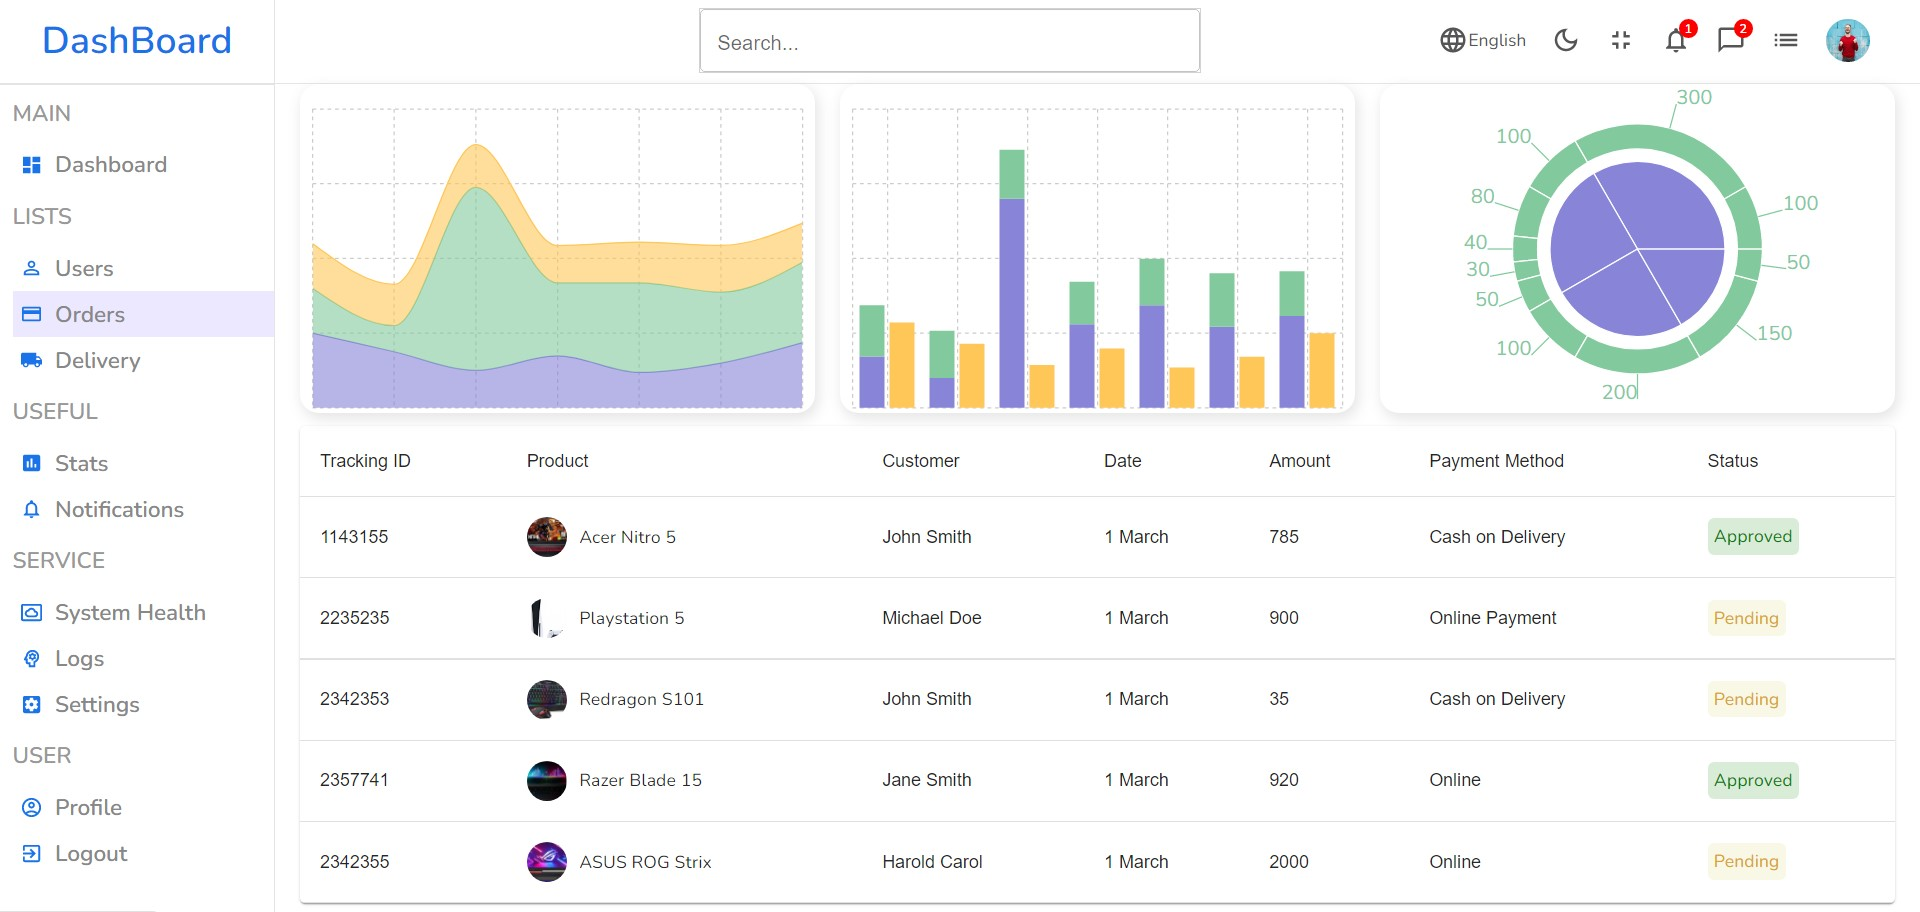
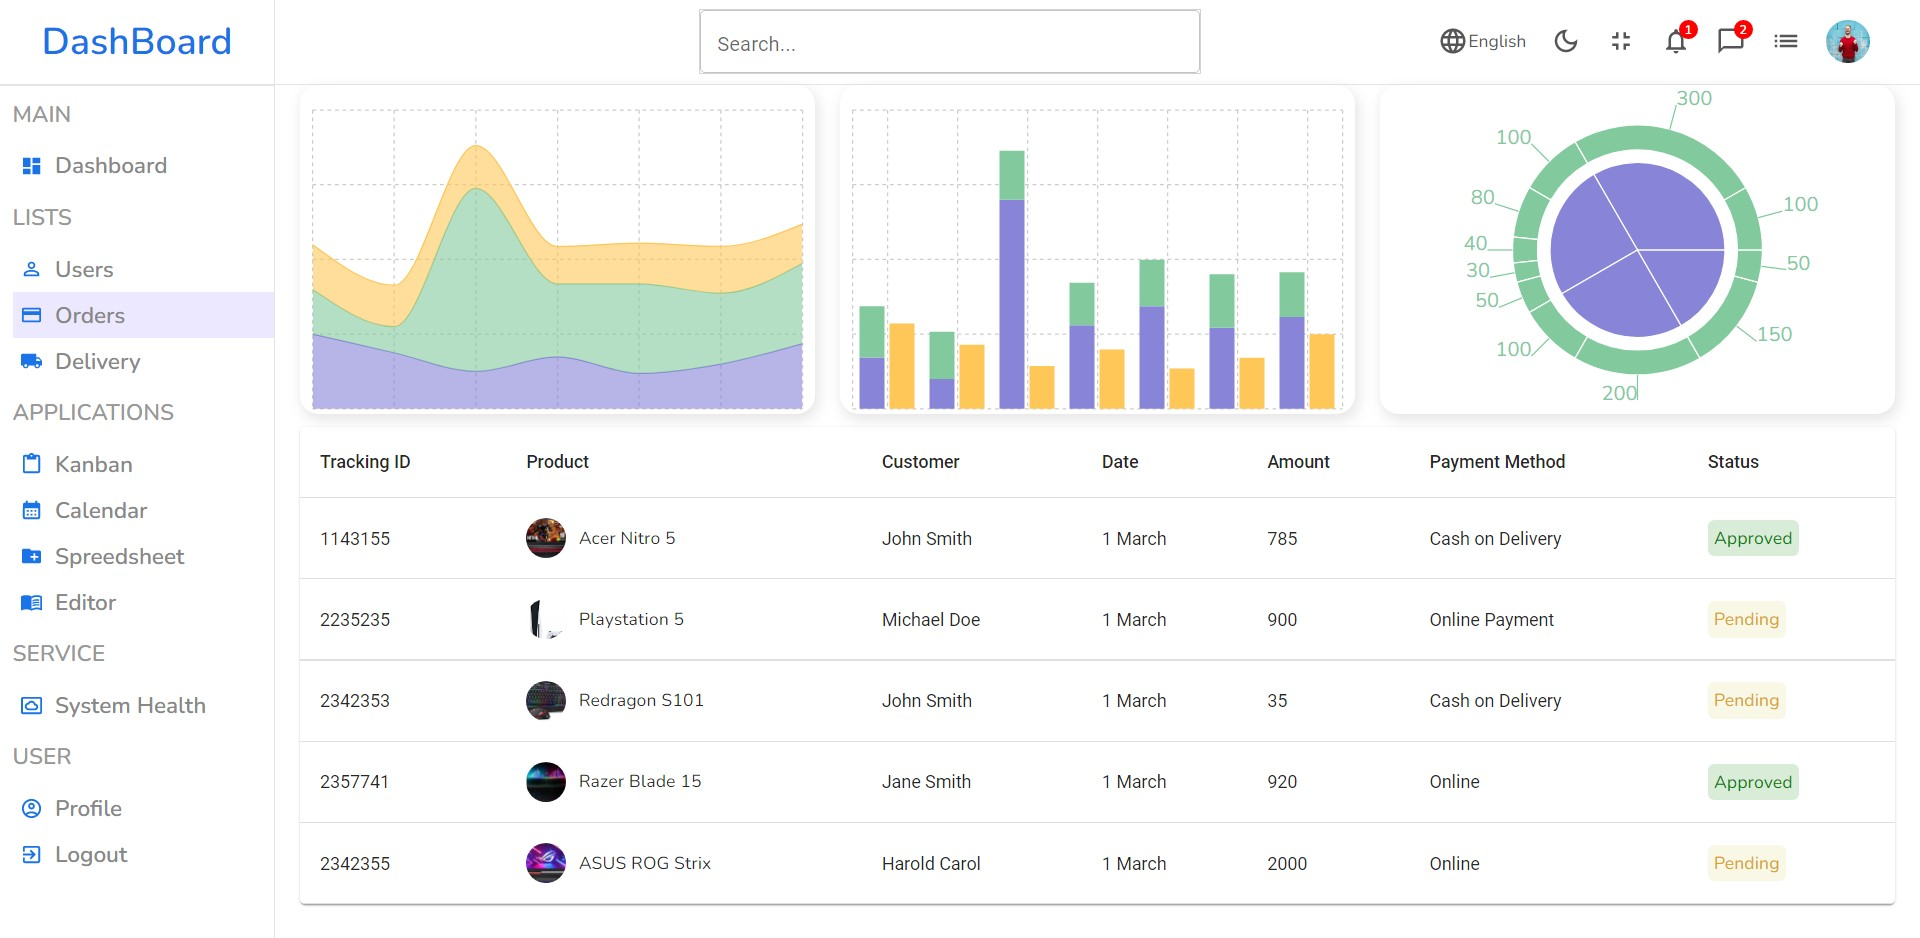
added Sheet and Editor

diff --git a/src/components/sidebar/Sidebar.jsx b/src/components/sidebar/Sidebar.jsx
@@ -14,6 +14,8 @@ import AccountCircleOutlinedIcon from "@mui/icons-material/AccountCircleOutlined
 
 import ContentPasteIcon from '@mui/icons-material/ContentPaste';
 import CalendarMonthIcon from '@mui/icons-material/CalendarMonth';
+import CreateNewFolderIcon from '@mui/icons-material/CreateNewFolder';
+import MenuBookIcon from '@mui/icons-material/MenuBook';
 
 import './sidebar.css'
 
@@ -73,19 +75,31 @@ function Sidebar() {
               <span>Calendar</span>
             </li>
           </Link>
+          <Link to="/sheet" style={{ textDecoration: "none" }}>
+            <li>
+              <CreateNewFolderIcon className="icon" />
+              <span>Spreedsheet</span>
+            </li>
+          </Link>
+          <Link to="/editor" style={{ textDecoration: "none" }}>
+            <li>
+              <MenuBookIcon className="icon" />
+              <span>Editor</span>
+            </li>
+          </Link>
           <p className="title">SERVICE</p>
           <li>
             <SettingsSystemDaydreamOutlinedIcon className="icon" />
             <span>System Health</span>
           </li>
-          <li>
+          {/* <li>
             <PsychologyOutlinedIcon className="icon" />
             <span>Logs</span>
           </li>
           <li>
             <SettingsApplicationsIcon className="icon" />
             <span>Settings</span>
-          </li>
+          </li> */}
           <p className="title">USER</p>
           <li>
             <AccountCircleOutlinedIcon className="icon" />

diff --git a/src/components/sheet/Spreedsheet.jsx b/src/components/sheet/Spreedsheet.jsx
@@ -1,0 +1,32 @@
+import { SpreadsheetComponent, SheetsDirective, SheetDirective, RangesDirective } from '@syncfusion/ej2-react-spreadsheet';
+import { RangeDirective, ColumnsDirective, ColumnDirective } from '@syncfusion/ej2-react-spreadsheet';
+import Header from '../header/Header'
+import { data } from './data';
+import './spreedsheet.css'
+
+function Spreedsheet() {
+    return (
+        <div className='spreedsheet'>
+            <Header title="Spreedsheet" />
+            <SpreadsheetComponent
+                height="83%"
+                allowOpen={true}
+                openUrl='https://ej2services.syncfusion.com/production/web-services/api/spreadsheet/open'
+                allowSave={true}
+                saveUrl='https://ej2services.syncfusion.com/production/web-services/api/spreadsheet/save'>
+                <SheetsDirective>
+                    <SheetDirective>
+                        <RangesDirective>
+                            <RangeDirective dataSource={data}></RangeDirective>
+                        </RangesDirective>
+                        <ColumnsDirective>
+                            {data.map((item, index) => <ColumnDirective key={index} width={150} />)}
+                        </ColumnsDirective>
+                    </SheetDirective>
+                </SheetsDirective>
+            </SpreadsheetComponent>
+        </div>
+    )
+}
+
+export default Spreedsheet

diff --git a/src/App.js b/src/App.js
@@ -1,4 +1,3 @@
-import React, { useCallback } from 'react';
 import { FullScreen, useFullScreenHandle } from "react-full-screen";
 
 import Home from "./pages/home/Home";
@@ -7,6 +6,8 @@ import Products from './pages/orders/Orders'
 import Delivery from './pages/delivery/Delivery';
 import Kanban from './pages/kanban/Kanban';
 import Calendar from './pages/calendar/Calendar';
+import Sheet from './pages/sheet/Sheet';
+import Editor from './pages/editor/Editor'
 
 import {
   BrowserRouter,
@@ -16,6 +17,7 @@ import {
 
 function App() {
   const handle = useFullScreenHandle();
+
   return (
     <div className="App">
       <FullScreen handle={handle}>
@@ -37,6 +39,12 @@ function App() {
               </Route>
               <Route path="calendar">
                 <Route index element={<Calendar handle={handle} />} />
+              </Route>
+              <Route path="sheet">
+                <Route index element={<Sheet handle={handle} />} />
+              </Route>
+              <Route path="editor">
+                <Route index element={<Editor handle={handle} />} />
               </Route>
             </Route>
           </Routes>

diff --git a/src/components/sheet/spreedsheet.css b/src/components/sheet/spreedsheet.css
@@ -1,0 +1,18 @@
+@import '../../../node_modules/@syncfusion/ej2-base/styles/material.css';
+@import '../../../node_modules/@syncfusion/ej2-inputs/styles/material.css';
+@import '../../../node_modules/@syncfusion/ej2-buttons/styles/material.css';
+@import '../../../node_modules/@syncfusion/ej2-splitbuttons/styles/material.css';
+@import '../../../node_modules/@syncfusion/ej2-lists/styles/material.css';
+@import '../../../node_modules/@syncfusion/ej2-navigations/styles/material.css';
+@import '../../../node_modules/@syncfusion/ej2-popups/styles/material.css';
+@import '../../../node_modules/@syncfusion/ej2-dropdowns/styles/material.css';
+@import '../../../node_modules/@syncfusion/ej2-grids/styles/material.css';
+@import '../../../node_modules/@syncfusion/ej2-react-spreadsheet/styles/material.css';
+
+.spreedsheet {
+    height: 86vh;
+    -webkit-box-shadow: 2px 4px 10px 1px rgba(0, 0, 0, 0.47);
+    box-shadow: 2px 4px 10px 1px rgba(201, 201, 201, 0.47);
+    border-radius: 15px;
+    padding: 0 20px;
+}

diff --git a/src/components/editor/document.css b/src/components/editor/document.css
@@ -1,0 +1,17 @@
+@import '../../../node_modules/@syncfusion/ej2-base/styles/material.css';
+@import '../../../node_modules/@syncfusion/ej2-buttons/styles/material.css';
+@import '../../../node_modules/@syncfusion/ej2-inputs/styles/material.css';
+@import '../../../node_modules/@syncfusion/ej2-popups/styles/material.css';
+@import '../../../node_modules/@syncfusion/ej2-lists/styles/material.css';
+@import '../../../node_modules/@syncfusion/ej2-navigations/styles/material.css';
+@import '../../../node_modules/@syncfusion/ej2-splitbuttons/styles/material.css';
+@import '../../../node_modules/@syncfusion/ej2-dropdowns/styles/material.css';
+@import "../../../node_modules/@syncfusion/ej2-react-documenteditor/styles/material.css";
+
+.document {
+    height: 87vh;
+    -webkit-box-shadow: 2px 4px 10px 1px rgba(0, 0, 0, 0.47);
+    box-shadow: 2px 4px 10px 1px rgba(201, 201, 201, 0.47);
+    border-radius: 15px;
+    padding: 0 20px;
+}

diff --git a/src/components/sheet/data.js b/src/components/sheet/data.js
@@ -1,0 +1,35 @@
+export const data = [{
+    OrderID: 10248,
+    CustomerID: 'VINET',
+    EmployeeID: 5,
+    ShipName: 'Vins et alcools Chevalier',
+    ShipCity: 'Reims'
+},
+{
+    OrderID: 10249,
+    CustomerID: 'TOMSP',
+    EmployeeID: 6,
+    ShipName: 'Toms Spezialitäten',
+    ShipCity: 'Münster'
+},
+{
+    OrderID: 10250,
+    CustomerID: 'HANAR',
+    EmployeeID: 4,
+    ShipName: 'Hanari Carnes',
+    ShipCity: 'Rio de Janeiro'
+},
+{
+    OrderID: 10251,
+    CustomerID: 'VICTE',
+    EmployeeID: 3,
+    ShipName: 'Victuailles en stock',
+    ShipCity: 'Lyon'
+},
+{
+    OrderID: 10252,
+    CustomerID: 'SUPRD',
+    EmployeeID: 4,
+    ShipName: 'Suprêmes délices',
+    ShipCity: 'Charleroi'
+}];

diff --git a/src/components/editor/Document.jsx b/src/components/editor/Document.jsx
@@ -1,0 +1,24 @@
+import {
+    DocumentEditorContainerComponent,
+    Toolbar,
+} from '@syncfusion/ej2-react-documenteditor';
+import Header from '../header/Header'
+import './document.css'
+
+DocumentEditorContainerComponent.Inject(Toolbar);
+
+function Document() {
+    return (
+        <div className='document'>
+            <Header title='Editor' />
+            <DocumentEditorContainerComponent
+                id="container"
+                height={'84%'}
+                serviceUrl="https://ej2services.syncfusion.com/production/web-services/api/documenteditor/"
+                enableToolbar={true}
+            />
+        </div>
+    )
+}
+
+export default Document

diff --git a/src/pages/sheet/Sheet.jsx b/src/pages/sheet/Sheet.jsx
@@ -1,0 +1,22 @@
+import Navbar from '../../components/navbar/Navbar'
+import Sidebar from '../../components/sidebar/Sidebar'
+
+import Spreedsheet from '../../components/sheet/Spreedsheet'
+
+import './sheet.css'
+
+function Sheet(props) {
+    return (
+        <div className="sheet">
+            <Sidebar />
+            <div className="sheet-container">
+                <Navbar handle={props.handle} />
+                <div className="sheet-component">
+                    <Spreedsheet />
+                </div>
+            </div>
+        </div>
+    )
+}
+
+export default Sheet

diff --git a/src/pages/editor/Editor.jsx b/src/pages/editor/Editor.jsx
@@ -1,0 +1,22 @@
+import Navbar from '../../components/navbar/Navbar'
+import Sidebar from '../../components/sidebar/Sidebar'
+
+import Document from '../../components/editor/Document'
+
+import './editor.css'
+
+function Editor(props) {
+  return (
+    <div className="editor">
+      <Sidebar />
+      <div className="editor-container">
+        <Navbar handle={props.handle} />
+        <div className="editor-component">
+          <Document />
+        </div>
+      </div>
+    </div>
+  )
+}
+
+export default Editor

diff --git a/src/components/calendar/Calendar.jsx b/src/components/calendar/Calendar.jsx
@@ -25,7 +25,7 @@ function Calendar() {
         <div className="scheduler">
             <Header title="Calendar" />
             <ScheduleComponent
-                height="490px"
+                height="75%"
                 ref={(schedule) => setScheduleObj(schedule)}
                 selectedDate={new Date(2021, 0, 10)}
                 eventSettings={{ dataSource: scheduleData }}

diff --git a/src/components/kanban/Kanban.jsx b/src/components/kanban/Kanban.jsx
@@ -11,6 +11,7 @@ function Kanban() {
             <KanbanComponent
                 id="kanban"
                 keyField="Status"
+                height="83%"
                 dataSource={kanbanData}
                 cardSettings={{ contentField: "Summary", headerField: "Id" }}>
                 <ColumnsDirective>

diff --git a/src/pages/editor/editor.css b/src/pages/editor/editor.css
@@ -1,0 +1,13 @@
+.editor {
+    display: flex;
+}
+
+.editor-container {
+    background-color: white;
+    flex: 6;
+}
+
+.editor-component {
+    padding: 0 20px;
+    width: 83vw !important;
+}
